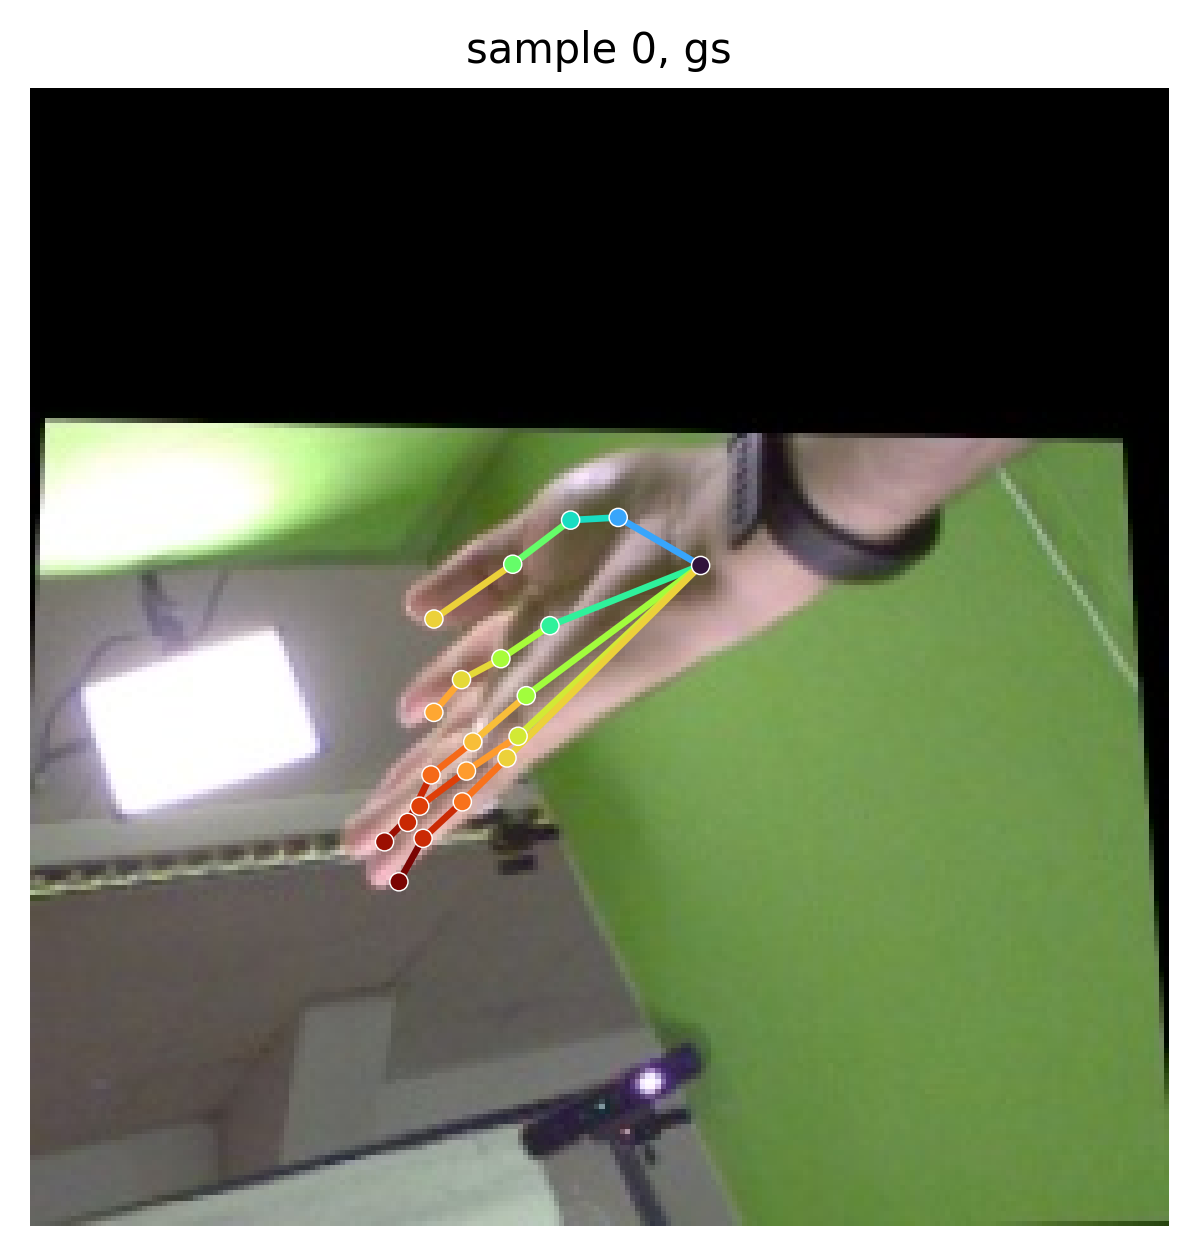
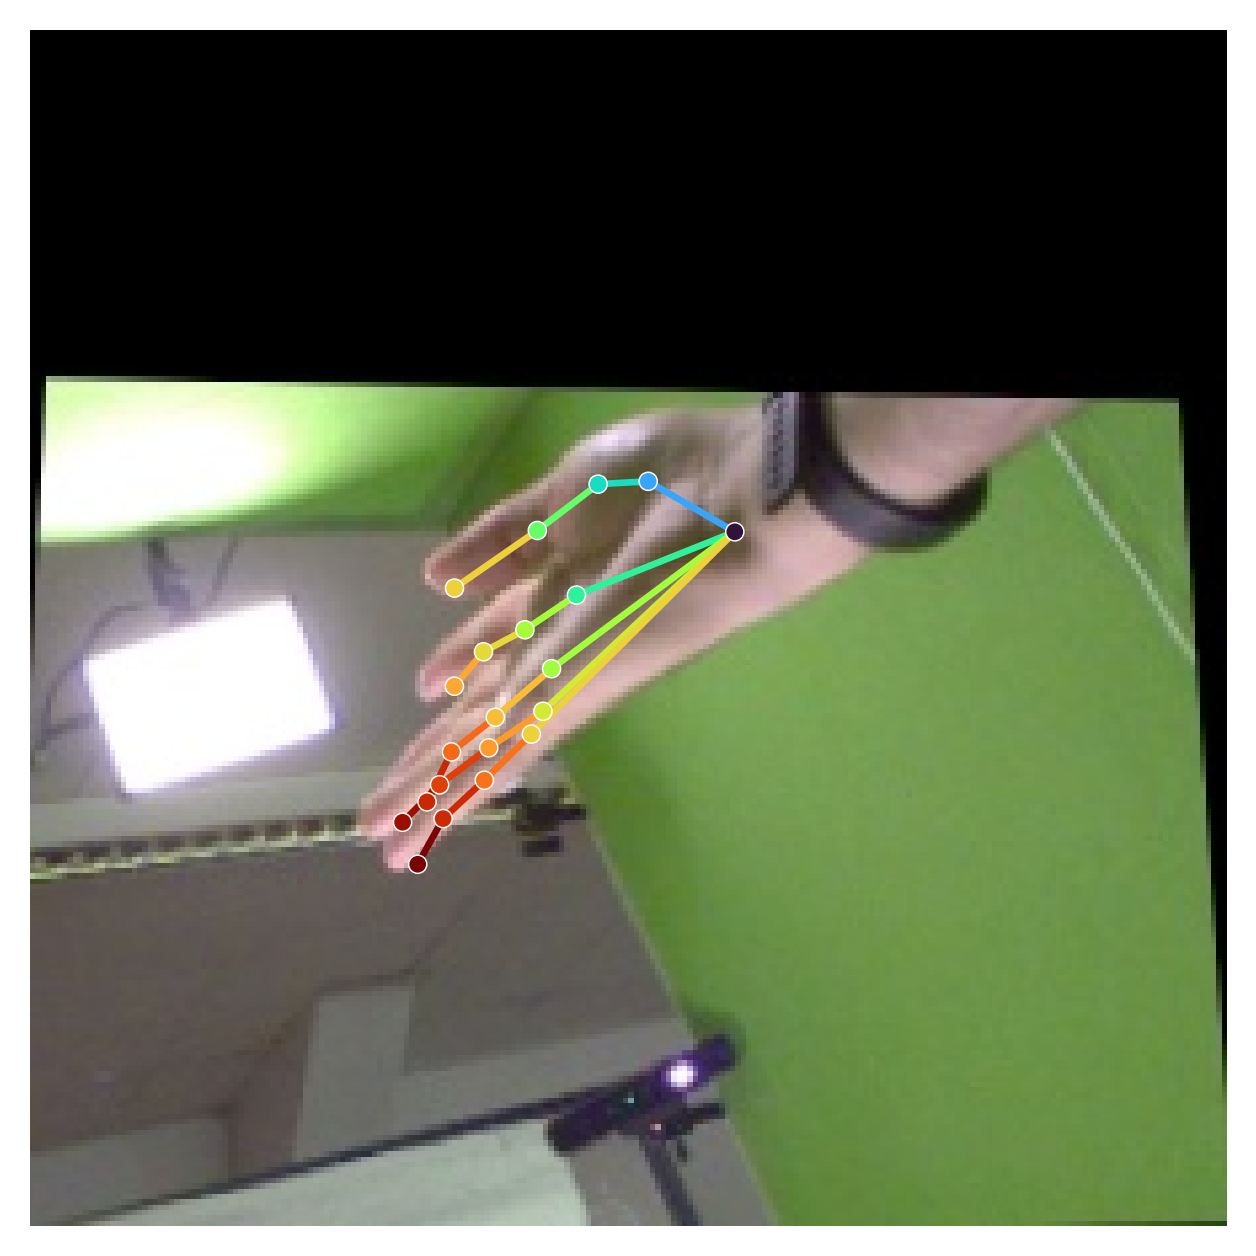
Remove titles from dataset report figures

diff --git a/src/evaluation/report_figures.py b/src/evaluation/report_figures.py
@@ -305,7 +305,7 @@ def plot_gradient_dataset_sample(
 ) -> plt.Figure:
     sample = _load_sample(sample_id, variant, image_size=input_size)
     fig, ax = plt.subplots(figsize=(4.0, 4.0))
-    _format_image_axis(ax, sample.image, f"sample {sample_id}, {variant}")
+    _format_image_axis(ax, sample.image)
     _draw_gradient_keypoints(ax, sample.keypoints)
     fig.tight_layout(pad=0.05)
     return fig
@@ -320,7 +320,7 @@ def plot_dataset_image_row(
     fig, axes = plt.subplots(1, len(sample_ids), figsize=(2.25 * len(sample_ids), 2.35), squeeze=False)
     for ax, sample_id in zip(axes.flat, sample_ids):
         sample = _load_sample(int(sample_id), variant, image_size=input_size)
-        _format_image_axis(ax, sample.image, f"sample {int(sample_id)}")
+        _format_image_axis(ax, sample.image)
     fig.subplots_adjust(left=0.01, right=0.99, top=0.86, bottom=0.02, wspace=0.035)
     return fig
 
